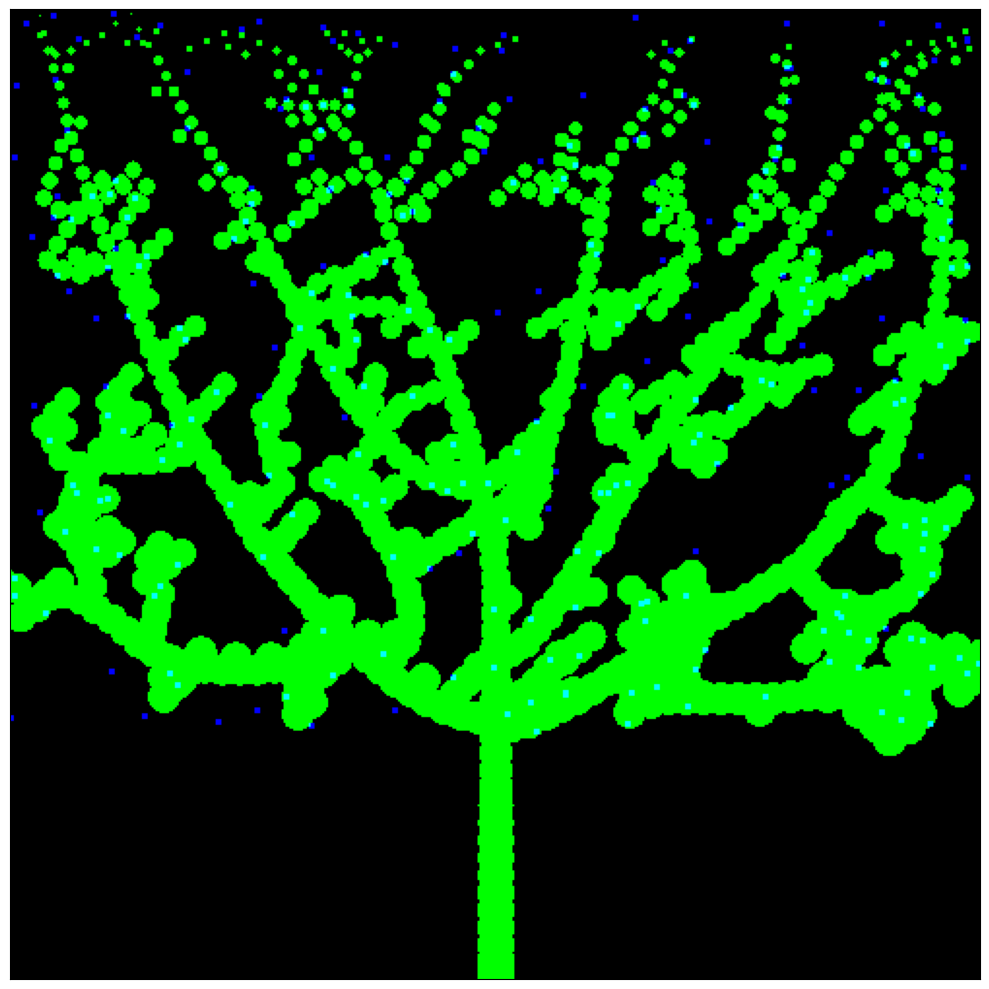
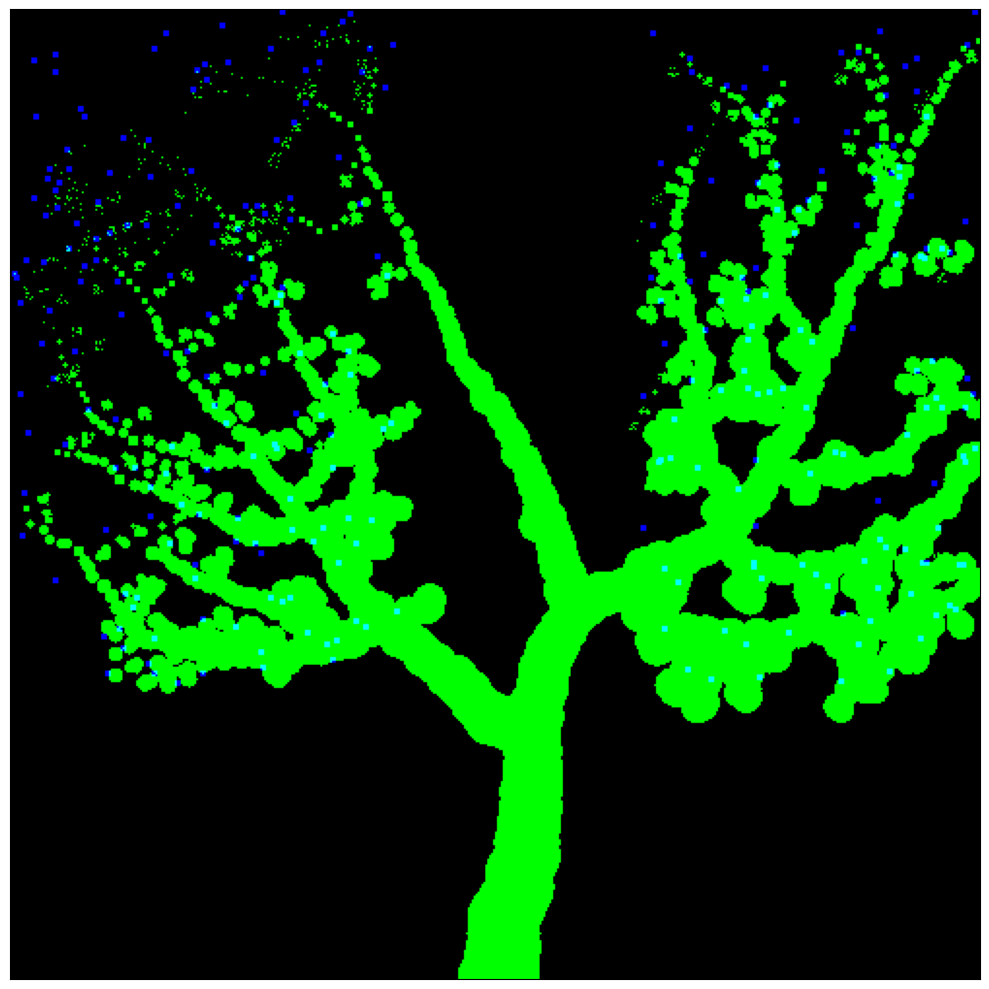
Prettier+ has age based sizing. Think it needs a rewrite to avoid a lot of redundant work.

diff --git a/src/genuary_2026/day01.py b/src/genuary_2026/day01.py
@@ -7,37 +7,41 @@ import numpy as np
 
 
 GRID_SIZE = 500
+NUM_STEPS = 90
 NUM_POINTS = 300
-SEED = 1702
-DISTANCE_THRESH = GRID_SIZE // 5
+SEED = 1701
 STEP_SIZE = 10
-MAX_RADIUS = 10
+MAX_RADIUS = 20
 
 # Setup RNG
 rng = np.random.default_rng(seed=SEED)
 
 # define random targets
 targets = rng.random(size=(2, NUM_POINTS))
-targets[0, :] = ((targets[0, :] * 1.5) / 2) * GRID_SIZE
-targets[1, :] *= GRID_SIZE
+targets[0, :] = ((targets[0, :] * 1.4) / 2) * GRID_SIZE
+targets[1, :] = ((((targets[1, :] * 1.5) / 2) + 0.65) % 1) * GRID_SIZE
+
 targets = targets.astype(int)
 
 # define starting node
-# nodes = np.array(
-#     [
-#         [GRID_SIZE, GRID_SIZE, GRID_SIZE],
-#         [GRID_SIZE // 2, (GRID_SIZE // 2) - 2, (GRID_SIZE // 2) + 2],
-#     ]
-# )
+node_ages = [0]
 nodes = np.array([[GRID_SIZE], [GRID_SIZE // 2]])
 
-
 # Run the algorithm, creating new nodes to move towards targets
-for val in range(100):
-    print(nodes.shape)
+for val in range(NUM_STEPS):
+    distance_thresh = ((NUM_STEPS - val) / NUM_STEPS) * GRID_SIZE
     node_target_distances = cdist(nodes.T, targets.T)
+    node_target_distances[node_target_distances > distance_thresh] = np.inf
+    closest_node_distances = np.min(node_target_distances, axis=0)
     closest_nodes_to_targets = np.argmin(node_target_distances, axis=0)
-    for node_index in set(closest_nodes_to_targets):
+    valid_nodes = set(
+        [
+            node
+            for node, dist in zip(closest_nodes_to_targets, closest_node_distances)
+            if dist != np.inf
+        ]
+    )
+    for node_index in valid_nodes:
         node_position = nodes[:, node_index]
         target_positions = targets[
             :, np.where(closest_nodes_to_targets == node_index)
@@ -45,27 +49,29 @@ for val in range(100):
         average_direction_to_targets = np.mean(
             target_positions - node_position[:, None], axis=1
         )
-        direction_norm = average_direction_to_targets / np.linalg.norm(
-            average_direction_to_targets
-        )
+        magnitude = np.linalg.norm(average_direction_to_targets) + 1e-6
+        average_direction_to_targets += rng.random(size=(2,)) * magnitude * 0.5
+        direction_norm = average_direction_to_targets / magnitude
         direction_step = (direction_norm * STEP_SIZE).astype(int).T
         new_point = node_position + direction_step
         nodes = np.concat([nodes, new_point[:, None]], axis=-1)
+        node_ages.append(val)
 
 
 # Create grid to draw on, and add
 grid = np.zeros((GRID_SIZE, GRID_SIZE, 3))
 
+
+# Draw the nodes
+for (y, x), age in zip(nodes.T, node_ages):
+    radius = MAX_RADIUS * ((NUM_STEPS - age) / NUM_STEPS) ** 1.5
+    rr, cc = disk((y, x), radius, shape=grid.shape)
+    grid[rr, cc, 1] = 1
+
 # Draw the random targets
 for y, x in targets.T:
     rr, cc = disk((y, x), 2, shape=grid.shape)
     grid[rr, cc, 2] = 1
-
-# Draw the nodes
-for y, x in nodes.T:
-    radius = MAX_RADIUS * (y / GRID_SIZE) ** 0.5
-    rr, cc = disk((y, x), radius, shape=grid.shape)
-    grid[rr, cc, 1] = 1
 
 # Show and save grid
 fig, axs = plt.subplots(1, 1, figsize=(10, 10), squeeze=False)
